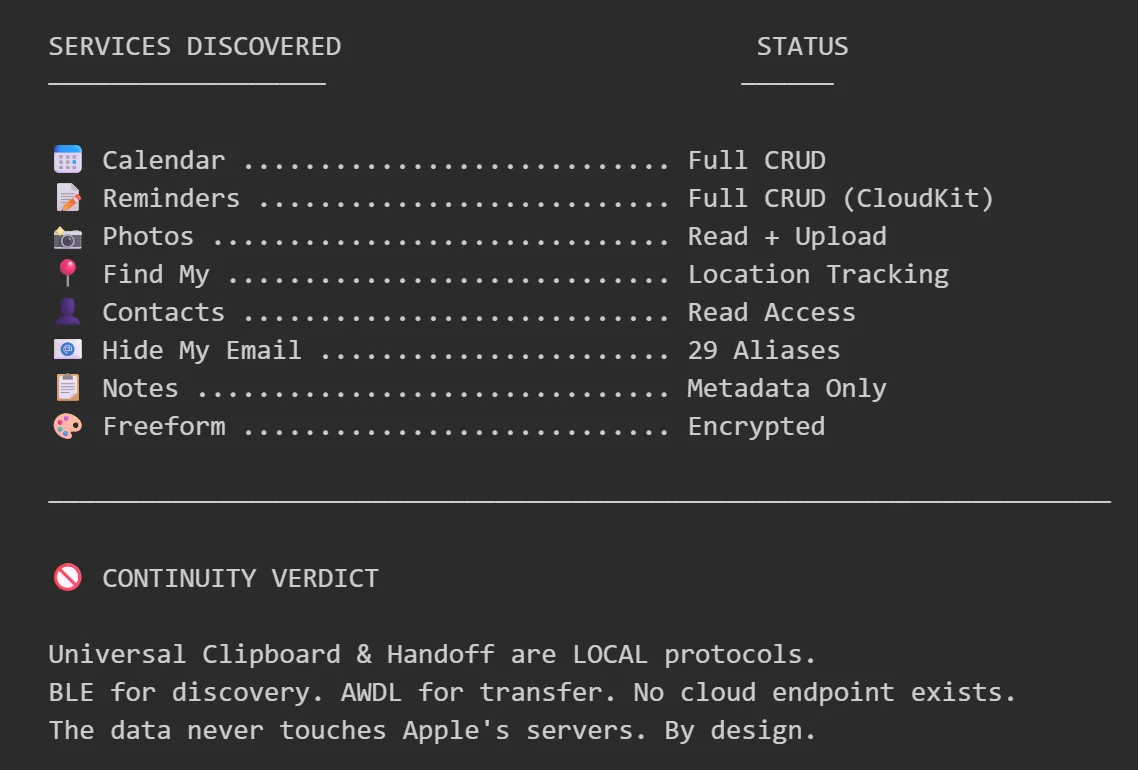
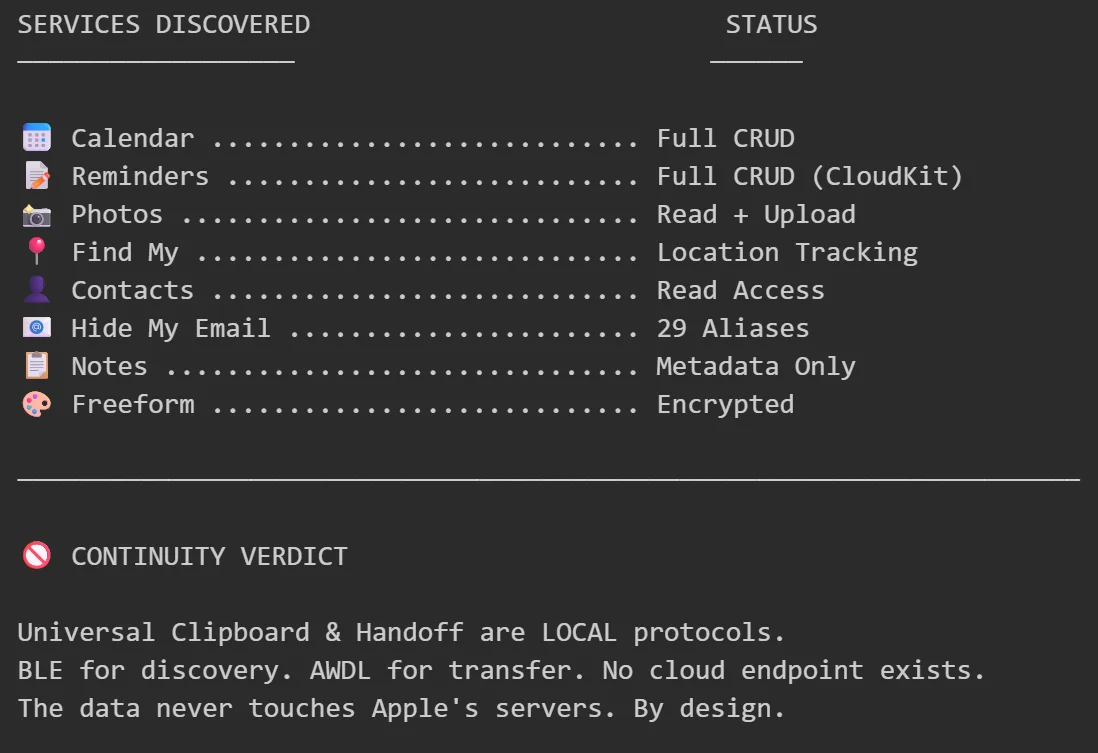
Add fog linger effect and update image references
Implements a fog linger mechanism in fog-worker and void-game scripts, allowing revealed fog cells to remain visible for a short duration after entities leave. Updates image references in CloudKit Map post and removes an unused image. Also renames 404 page and post files for future changes.

diff --git a/src/scripts/void-game.ts b/src/scripts/void-game.ts
@@ -413,6 +413,8 @@ class FogWorker {
   private bitmap: ImageBitmap | null = null;
   private ready = false;
   private pendingRender = false;
+  private pendingRevealMapRequest = false;
+  private _onRevealMapReceived: ((data: Float32Array) => void) | null = null;
 
   constructor() {
     // Only init if browser supports required APIs
@@ -434,6 +436,11 @@ class FogWorker {
           if (this.bitmap) this.bitmap.close();
           this.bitmap = msg.bitmap;
           this.pendingRender = false;
+        } else if (msg.type === "revealMap") {
+          this.pendingRevealMapRequest = false;
+          if (this._onRevealMapReceived) {
+            this._onRevealMapReceived(msg.data);
+          }
         }
       };
 
@@ -449,6 +456,10 @@ class FogWorker {
     } catch {
       this.worker = null;
     }
+  }
+
+  set onRevealMapReceived(callback: ((data: Float32Array) => void) | null) {
+    this._onRevealMapReceived = callback;
   }
 
   get isActive(): boolean {
@@ -497,6 +508,13 @@ class FogWorker {
   setRevealMap(data: Float32Array): void {
     const copy = new Float32Array(data);
     this.worker?.postMessage({ type: "setRevealMap", data: copy } satisfies FogWorkerInMessage, [copy.buffer]);
+  }
+
+  requestRevealMap(): void {
+    if (!this.pendingRevealMapRequest && this.worker) {
+      this.pendingRevealMapRequest = true;
+      this.worker.postMessage({ type: "getRevealMap" } satisfies FogWorkerInMessage);
+    }
   }
 
   destroy(): void {
@@ -571,9 +589,11 @@ export function initVoidGame(options: GameInitOptions): () => void {
 
   // World State
   let revealMap: Float32Array | null = null;
+  let lastRevealTime: Float32Array | null = null; // For linger mechanism in fallback mode
   let revealW: number;
   let revealH: number;
   const revealRes = CONFIG.REVEAL_RES;
+  const LINGER_DURATION = 180; // Frames to keep fog revealed after creature leaves (~3s at 60fps)
   const PICKUP_HOLD_TIME = CONFIG.PICKUP_HOLD_TIME;
   let respawnPending = false;
 
@@ -2687,7 +2707,7 @@ export function initVoidGame(options: GameInitOptions): () => void {
       // Worker handles reveal in updateEntities
       if (fogWorker.isActive) return;
 
-      if (!revealMap) return;
+      if (!revealMap || !lastRevealTime) return;
 
       const cx = Math.floor(this.x / revealRes);
       const cy = Math.floor(this.y / revealRes);
@@ -2708,6 +2728,10 @@ export function initVoidGame(options: GameInitOptions): () => void {
             const idx = gy * revealW + gx;
             const intensity = (1 - d * invRadius) * (0.5 + this.glow * 0.5);
             revealMap[idx] = Math.max(revealMap[idx], intensity);
+            // Track when this cell was revealed (for lingering)
+            if (intensity > 0.1) {
+              lastRevealTime[idx] = time;
+            }
           }
         }
       }
@@ -3557,12 +3581,20 @@ export function initVoidGame(options: GameInitOptions): () => void {
     revealW = Math.ceil(W / revealRes);
     revealH = Math.ceil(H / revealRes);
     revealMap = new Float32Array(revealW * revealH);
+    lastRevealTime = new Float32Array(revealW * revealH);
 
     // Initialize fog worker
     fogWorker.init(W, H, {
       revealRes: CONFIG.REVEAL_RES,
       revealDecay: CONFIG.REVEAL_DECAY,
     });
+
+    // Set up callback to sync worker's revealMap to main thread
+    fogWorker.onRevealMapReceived = (data: Float32Array) => {
+      if (revealMap && data.length === revealMap.length) {
+        revealMap.set(data);
+      }
+    };
   }
 
   function drawFog(): void {
@@ -3624,7 +3656,7 @@ export function initVoidGame(options: GameInitOptions): () => void {
           const px = gx * revealRes;
           const pxEnd = Math.min(px + revealRes, W);
 
-          const isEdge = darkness > 0.05 && darkness < 0.85;
+          const isEdge = darkness <= 0.05 || darkness >= 0.85;
 
           for (let y = py; y < pyEnd; y++) {
             const rowOffset = y * W * 4;
@@ -3663,7 +3695,7 @@ export function initVoidGame(options: GameInitOptions): () => void {
     }
 
     // Canvas fallback decay
-    if (!revealMap) return;
+    if (!revealMap || !lastRevealTime) return;
 
     _protectedCells.clear();
     for (const c of creatures) {
@@ -3704,11 +3736,16 @@ export function initVoidGame(options: GameInitOptions): () => void {
       }
     }
 
+    // Apply decay to cells not near entities AND not recently revealed
+    const lingerThreshold = time - LINGER_DURATION;
     let anyChanged = false;
     for (let i = 0; i < revealMap.length; i++) {
       if (revealMap[i] > 0 && !_protectedCells.has(i)) {
-        revealMap[i] = Math.max(0, revealMap[i] - CONFIG.REVEAL_DECAY * 3);
-        anyChanged = true;
+        // Only decay if not recently revealed (outside linger duration)
+        if (lastRevealTime[i] < lingerThreshold) {
+          revealMap[i] = Math.max(0, revealMap[i] - CONFIG.REVEAL_DECAY * 3);
+          anyChanged = true;
+        }
       }
     }
     if (anyChanged) fogDirty = true;
@@ -4080,6 +4117,11 @@ export function initVoidGame(options: GameInitOptions): () => void {
       updateFogDecay();
     }
 
+    // Sync worker's revealMap to main thread for getLightAt() - every 6 frames
+    if (time % 6 === 0 && fogWorker.isActive) {
+      fogWorker.requestRevealMap();
+    }
+
     if (time % CONFIG.SAVE_INTERVAL === 0) save();
 
     updateUI();
@@ -4232,12 +4274,13 @@ export function initVoidGame(options: GameInitOptions): () => void {
     canvas.height = H;
 
     const oldReveal = revealMap;
+    const oldLastRevealTime = lastRevealTime;
     const oldW = revealW;
     const oldH = revealH;
 
     initRevealMap();
 
-    if (oldReveal && oldW && oldH && revealW && revealH && revealMap) {
+    if (oldReveal && oldW && oldH && revealW && revealH && revealMap && lastRevealTime) {
       const scaleX = oldW / revealW;
       const scaleY = oldH / revealH;
       for (let gy = 0; gy < revealH; gy++) {
@@ -4245,7 +4288,12 @@ export function initVoidGame(options: GameInitOptions): () => void {
           const ox = Math.floor(gx * scaleX);
           const oy = Math.floor(gy * scaleY);
           if (ox < oldW && oy < oldH) {
-            revealMap[gy * revealW + gx] = oldReveal[oy * oldW + ox];
+            const oldIdx = oy * oldW + ox;
+            const newIdx = gy * revealW + gx;
+            revealMap[newIdx] = oldReveal[oldIdx];
+            if (oldLastRevealTime) {
+              lastRevealTime[newIdx] = oldLastRevealTime[oldIdx];
+            }
           }
         }
       }

diff --git a/src/scripts/fog-worker.ts b/src/scripts/fog-worker.ts
@@ -78,7 +78,12 @@ let height = 0;
 let revealW = 0;
 let revealH = 0;
 let revealMap: Float32Array | null = null;
+let lastRevealTime: Float32Array | null = null; // Track when each cell was last revealed
+let frameCounter = 0;
 let fogDirty = true;
+
+// How long revealed cells stay protected after creature leaves (in frames, ~3 seconds at 60fps)
+const LINGER_DURATION = 180;
 
 let offscreen: OffscreenCanvas | null = null;
 let offscreenCtx: OffscreenCanvasRenderingContext2D | null = null;
@@ -103,6 +108,7 @@ function init(w: number, h: number, cfg: FogConfig): void {
 
 function resize(w: number, h: number): void {
   const oldRevealMap = revealMap;
+  const oldLastRevealTime = lastRevealTime;
   const oldRevealW = revealW;
   const oldRevealH = revealH;
 
@@ -111,6 +117,7 @@ function resize(w: number, h: number): void {
   revealW = Math.ceil(w / config.revealRes);
   revealH = Math.ceil(h / config.revealRes);
   revealMap = new Float32Array(revealW * revealH);
+  lastRevealTime = new Float32Array(revealW * revealH);
 
   // Preserve old reveal data if possible
   if (oldRevealMap && oldRevealW > 0 && oldRevealH > 0) {
@@ -121,7 +128,12 @@ function resize(w: number, h: number): void {
         const ox = Math.floor(gx * scaleX);
         const oy = Math.floor(gy * scaleY);
         if (ox < oldRevealW && oy < oldRevealH) {
-          revealMap[gy * revealW + gx] = oldRevealMap[oy * oldRevealW + ox];
+          const oldIdx = oy * oldRevealW + ox;
+          const newIdx = gy * revealW + gx;
+          revealMap[newIdx] = oldRevealMap[oldIdx];
+          if (oldLastRevealTime) {
+            lastRevealTime[newIdx] = oldLastRevealTime[oldIdx];
+          }
         }
       }
     }
@@ -142,8 +154,9 @@ function resize(w: number, h: number): void {
 function updateEntities(creatures: readonly CreatureData[], monoliths: readonly MonolithData[]): void {
   cachedCreatures = creatures;
   cachedMonoliths = monoliths;
+  frameCounter++;
 
-  if (!revealMap) return;
+  if (!revealMap || !lastRevealTime) return;
 
   const { revealRes } = config;
   const revealResSq = revealRes * revealRes;
@@ -170,6 +183,10 @@ function updateEntities(creatures: readonly CreatureData[], monoliths: readonly 
           if (intensity > revealMap[idx]) {
             revealMap[idx] = intensity;
             fogDirty = true;
+          }
+          // Track when this cell was revealed (for lingering)
+          if (intensity > 0.1) {
+            lastRevealTime[idx] = frameCounter;
           }
         }
       }
@@ -203,6 +220,10 @@ function updateEntities(creatures: readonly CreatureData[], monoliths: readonly 
             revealMap[idx] = intensity;
             fogDirty = true;
           }
+          // Track when this cell was revealed (for lingering)
+          if (intensity > 0.1) {
+            lastRevealTime[idx] = frameCounter;
+          }
         }
       }
     }
@@ -210,7 +231,7 @@ function updateEntities(creatures: readonly CreatureData[], monoliths: readonly 
 }
 
 function addRevealPoints(points: readonly RevealPoint[]): void {
-  if (!revealMap) return;
+  if (!revealMap || !lastRevealTime) return;
 
   const { revealRes } = config;
   const revealResSq = revealRes * revealRes;
@@ -238,6 +259,10 @@ function addRevealPoints(points: readonly RevealPoint[]): void {
             revealMap[idx] = newVal;
             fogDirty = true;
           }
+          // Track when this cell was revealed (for lingering)
+          if (falloff * point.intensity > 0.1) {
+            lastRevealTime[idx] = frameCounter;
+          }
         }
       }
     }
@@ -249,12 +274,12 @@ function addRevealPoints(points: readonly RevealPoint[]): void {
 // ============================================================================
 
 function computeDecay(): void {
-  if (!revealMap) return;
+  if (!revealMap || !lastRevealTime) return;
 
   const { revealRes, revealDecay } = config;
   const revealResSq = revealRes * revealRes;
 
-  // Build protected cells set
+  // Build protected cells set (cells currently near entities)
   protectedCells.clear();
 
   // Protect cells near creatures
@@ -297,12 +322,19 @@ function computeDecay(): void {
     }
   }
 
-  // Apply decay to unprotected cells
+  // Apply decay to cells that are:
+  // 1. Not currently near an entity (not in protectedCells)
+  // 2. Not recently revealed (outside linger duration)
   const decayAmount = revealDecay * 3;
+  const lingerThreshold = frameCounter - LINGER_DURATION;
+
   for (let i = 0; i < revealMap.length; i++) {
     if (revealMap[i] > 0 && !protectedCells.has(i)) {
-      revealMap[i] = Math.max(0, revealMap[i] - decayAmount);
-      fogDirty = true;
+      // Check if this cell was revealed recently (within linger duration)
+      if (lastRevealTime[i] < lingerThreshold) {
+        revealMap[i] = Math.max(0, revealMap[i] - decayAmount);
+        fogDirty = true;
+      }
     }
   }
 }
@@ -336,7 +368,7 @@ function render(): void {
 
         const px = gx * revealRes;
         const pxEnd = Math.min(px + revealRes, width);
-        const isEdge = darkness > 0.05 && darkness < 0.85;
+        const isEdge = darkness <= 0.05 || darkness >= 0.85;
 
         for (let y = py; y < pyEnd; y++) {
           const rowOffset = y * width * 4;

diff --git a/src/content/posts/CloudKit Map.md b/src/content/posts/CloudKit Map.md
@@ -4,7 +4,7 @@ pubDate: 2026-01-28
 description: "how one weekend of curiosity turned into a deep dive through Apple's CloudKit authentication labyrinth..."
 author: "woflo"
 images:
-  - url: "/images/walled-garden-cover-2.webp"
+  - url: "/images/walled-garden-cover.webp"
     alt: "The Mappings of a Walled Garden"
 ---
 
